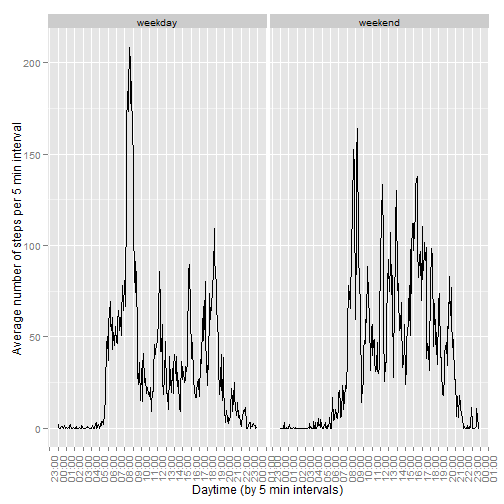
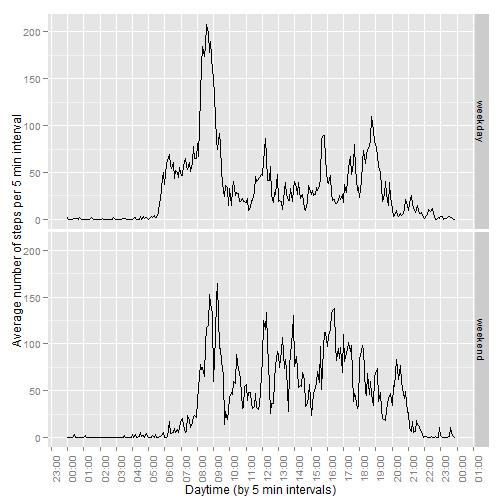
1. Now weekdays and weekends activity pattern comparison  is stacked vertically as it should. 2. Renamed optional figure (the same) in order to show it is "not must"

Changed region(s): [[0.0, 0.0298, 1.0, 0.9821]]

diff --git a/PA1_template.html b/PA1_template.html
@@ -204,7 +204,7 @@ hr {
 <h2>Checking pre-requisites</h2>
 
 <p>Since this study relies upon certain R packages, the missing packages will be 
-automatically installed from the default repository (this is the <a href="http://stackoverflow.com/questions/4090169/elegant-way-to-check-for-missing-packages-and-install-them">reference</a> to the trick.</p>
+automatically installed from the default repository (this is the <a href="http://stackoverflow.com/questions/4090169/elegant-way-to-check-for-missing-packages-and-install-them">reference</a> to the explanation of the trick).</p>
 
 <pre><code class="r">list.of.packages &lt;- list(&quot;data.table&quot;, 
                          &quot;lubridate&quot;,&quot;ggplot2&quot;,&quot;grid&quot;,&quot;gridExtra&quot;,&quot;scales&quot;,
@@ -299,7 +299,7 @@ print(xtable(stepsummary), type=&quot;html&quot;)
 
 <!-- html table generated in R 3.1.2 by xtable 1.7-4 package -->
 
-<!-- Mon Dec 15 01:36:35 2014 -->
+<!-- Mon Dec 15 01:55:07 2014 -->
 
 <table border=1>
 <tr> <th>  </th> <th> Mean </th> <th> Median </th>  </tr>
@@ -376,7 +376,7 @@ print(xtable(as.data.frame(daysWithMissingData)),type=&quot;html&quot;)
 
 <!-- html table generated in R 3.1.2 by xtable 1.7-4 package -->
 
-<!-- Mon Dec 15 01:36:35 2014 -->
+<!-- Mon Dec 15 01:55:07 2014 -->
 
 <table border=1>
 <tr> <th>  </th> <th> date </th> <th> NAsperday </th> <th> weekday </th>  </tr>
@@ -412,7 +412,7 @@ print(xtable(as.data.frame(daysActuallyInDataSet)),type=&quot;html&quot;)
 
 <!-- html table generated in R 3.1.2 by xtable 1.7-4 package -->
 
-<!-- Mon Dec 15 01:36:35 2014 -->
+<!-- Mon Dec 15 01:55:07 2014 -->
 
 <table border=1>
 <tr> <th>  </th> <th> WeekdayName </th> <th> count </th>  </tr>
@@ -485,7 +485,7 @@ print(xtable(stepsummary), type=&quot;html&quot;)
 
 <!-- html table generated in R 3.1.2 by xtable 1.7-4 package -->
 
-<!-- Mon Dec 15 01:36:36 2014 -->
+<!-- Mon Dec 15 01:55:08 2014 -->
 
 <table border=1>
 <tr> <th>  </th> <th> Mean </th> <th> Median </th>  </tr>
@@ -509,10 +509,10 @@ The following section shows the difference in the activity pattern in the </p>
 p &lt;- ggplot(summarizeIntervalsPerWeekdayType,
     aes(x=toTime(interval),y=activityPerWeekdayTypeAndInterval))+ geom_line() +
     xlab(&quot;Daytime (by 5 min intervals)&quot;)+ ylab(&quot;Average number of steps per 5 min interval&quot;)
-handleStyleAndTime(p) + facet_grid(. ~ weekdaytype)
+handleStyleAndTime(p) + facet_grid(weekdaytype~.)
 </code></pre>
 
[2 lines of base64/hex data omitted]
 
 <p>In order to validate the impression, let&#39;s overlay both graphs:</p>
 
@@ -523,7 +523,7 @@ handleStyleAndTime(p) + facet_grid(. ~ weekdaytype)
 handleStyleAndTime(p1) 
 </code></pre>
 
[2 lines of base64/hex data omitted]
 
 <p><strong>The conclusions:</strong></p>
 

diff --git a/PA1_template.md b/PA1_template.md
@@ -7,7 +7,7 @@ keep_md: true
 
 ## Checking pre-requisites
 Since this study relies upon certain R packages, the missing packages will be 
-automatically installed from the default repository (this is the [reference](http://stackoverflow.com/questions/4090169/elegant-way-to-check-for-missing-packages-and-install-them) to the trick.
+automatically installed from the default repository (this is the [reference](http://stackoverflow.com/questions/4090169/elegant-way-to-check-for-missing-packages-and-install-them) to the explanation of the trick).
 
 
 ```r
@@ -113,7 +113,7 @@ print(xtable(stepsummary), type="html")
 ```
 
 <!-- html table generated in R 3.1.2 by xtable 1.7-4 package -->
-<!-- Mon Dec 15 01:36:35 2014 -->
+<!-- Mon Dec 15 01:55:07 2014 -->
 <table border=1>
 <tr> <th>  </th> <th> Mean </th> <th> Median </th>  </tr>
   <tr> <td align="right"> Number of steps per day </td> <td align="right"> 10766.19 </td> <td align="right"> 10765.00 </td> </tr>
@@ -198,7 +198,7 @@ print(xtable(as.data.frame(daysWithMissingData)),type="html")
 ```
 
 <!-- html table generated in R 3.1.2 by xtable 1.7-4 package -->
-<!-- Mon Dec 15 01:36:35 2014 -->
+<!-- Mon Dec 15 01:55:07 2014 -->
 <table border=1>
 <tr> <th>  </th> <th> date </th> <th> NAsperday </th> <th> weekday </th>  </tr>
   <tr> <td align="right"> 1 </td> <td> 2012-10-01 </td> <td align="right"> 288 </td> <td> Monday </td> </tr>
@@ -236,7 +236,7 @@ print(xtable(as.data.frame(daysActuallyInDataSet)),type="html")
 ```
 
 <!-- html table generated in R 3.1.2 by xtable 1.7-4 package -->
-<!-- Mon Dec 15 01:36:35 2014 -->
+<!-- Mon Dec 15 01:55:07 2014 -->
 <table border=1>
 <tr> <th>  </th> <th> WeekdayName </th> <th> count </th>  </tr>
   <tr> <td align="right"> 1 </td> <td> Friday </td> <td align="right">   7 </td> </tr>
@@ -312,7 +312,7 @@ print(xtable(stepsummary), type="html")
 ```
 
 <!-- html table generated in R 3.1.2 by xtable 1.7-4 package -->
-<!-- Mon Dec 15 01:36:36 2014 -->
+<!-- Mon Dec 15 01:55:08 2014 -->
 <table border=1>
 <tr> <th>  </th> <th> Mean </th> <th> Median </th>  </tr>
   <tr> <td align="right"> Number of steps per day </td> <td align="right"> 9704.66 </td> <td align="right"> 10395.00 </td> </tr>
@@ -337,7 +337,7 @@ summarizeIntervalsPerWeekdayType <- extendedActivityTblRepaired %>%
 p <- ggplot(summarizeIntervalsPerWeekdayType,
     aes(x=toTime(interval),y=activityPerWeekdayTypeAndInterval))+ geom_line() +
     xlab("Daytime (by 5 min intervals)")+ ylab("Average number of steps per 5 min interval")
-handleStyleAndTime(p) + facet_grid(. ~ weekdaytype)
+handleStyleAndTime(p) + facet_grid(weekdaytype~.)
 ```
 
 ![plot of chunk weekdays and weekends activity pattern comparison for imputed data](figure/weekdays and weekends activity pattern comparison for imputed data-1.png) 
@@ -352,7 +352,7 @@ p1<- qplot(data=summarizeIntervalsPerWeekdayType,
 handleStyleAndTime(p1) 
 ```
 
-![plot of chunk overlayed activity pattern per weekday type for imputed data](figure/overlayed activity pattern per weekday type for imputed data-1.png) 
+![plot of chunk not must overlayed activity pattern per weekday type for imputed data](figure/not must overlayed activity pattern per weekday type for imputed data-1.png) 
 
 **The conclusions:**
 
